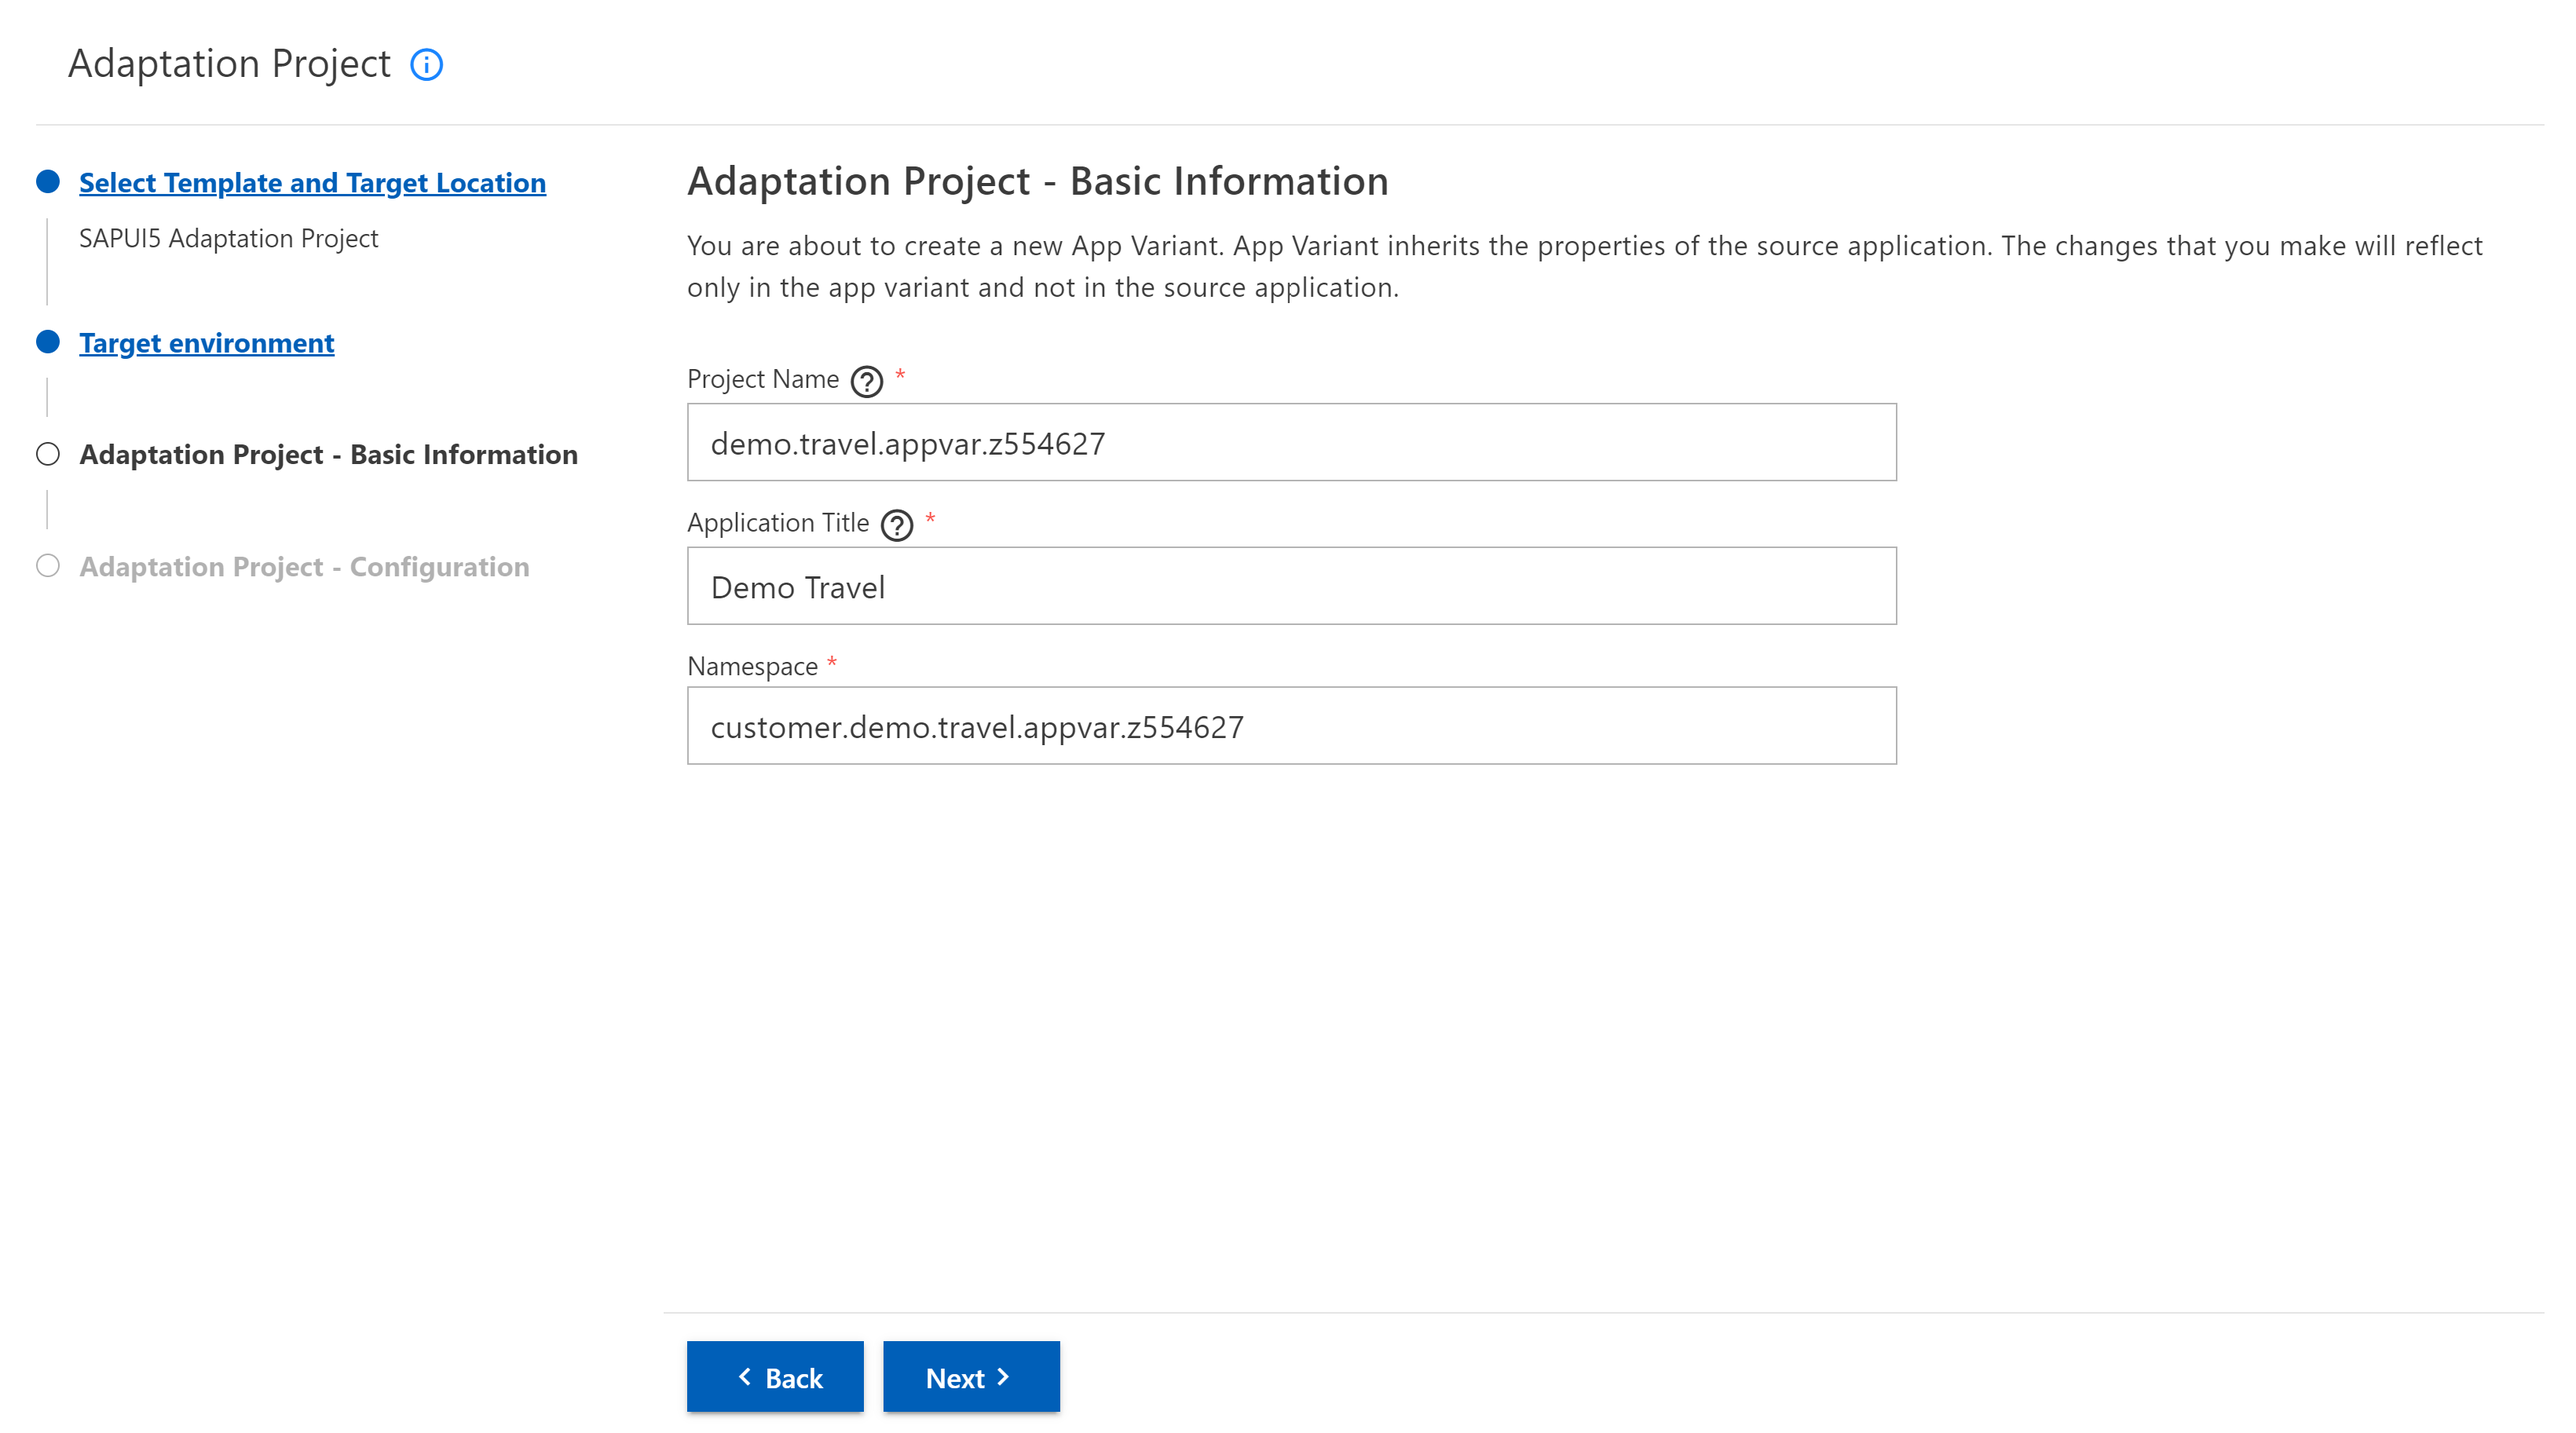
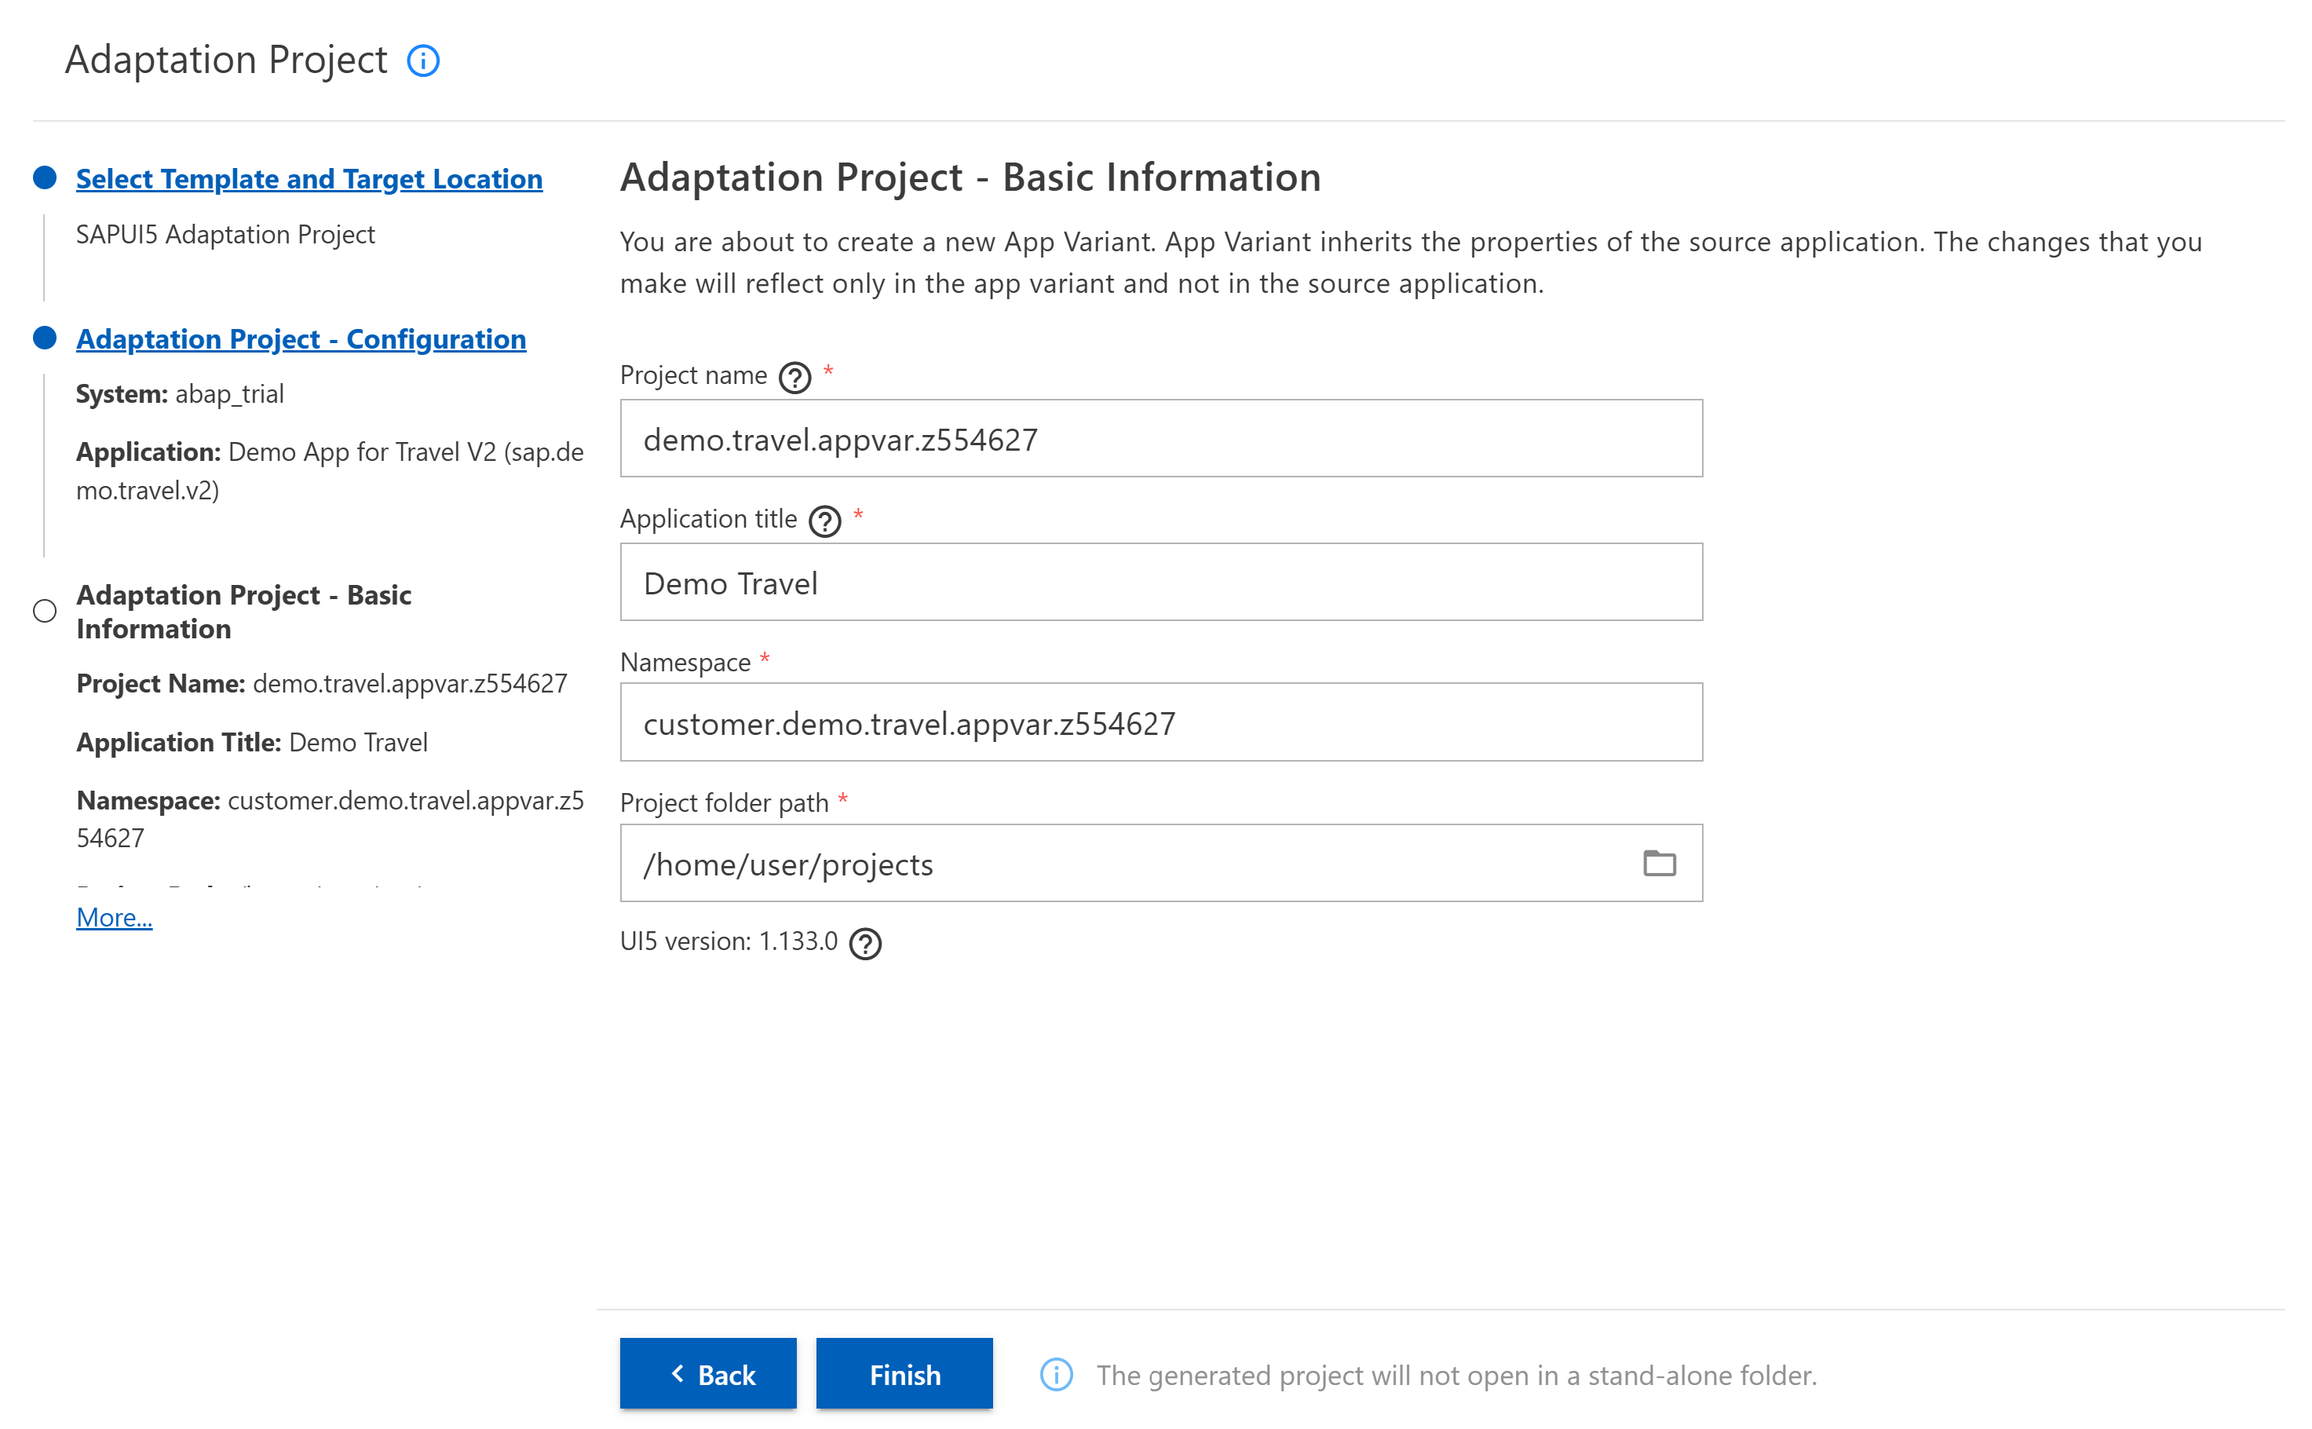
update tutorial

diff --git a/chapters/2.0-get-fam-with-gen/README.md b/chapters/2.0-get-fam-with-gen/README.md
@@ -23,8 +23,9 @@ After the wizard is started there are several steps that needs to be completed i
 ### 2. Basic Information
 
    1. Enter the Basic Information required for your adaptation project:
-      - Project Name: uniquely identifiable name "demo.travel.appvar.{your unique number}"
-      - Application Title: uniquely identifiable name "Demo Travel {your unique number}"
+      - Project name: uniquely identifiable name "demo.travel.appvar.{your unique number}"
+      - Application title: uniquely identifiable name "Demo Travel {your unique number}"
+      - Project folder path: choose the project folder from the current opened workspace in the which the project should be created. 
    2. Press the Next button.
 <img src="img/basic-information.png" width="1000" />
    
